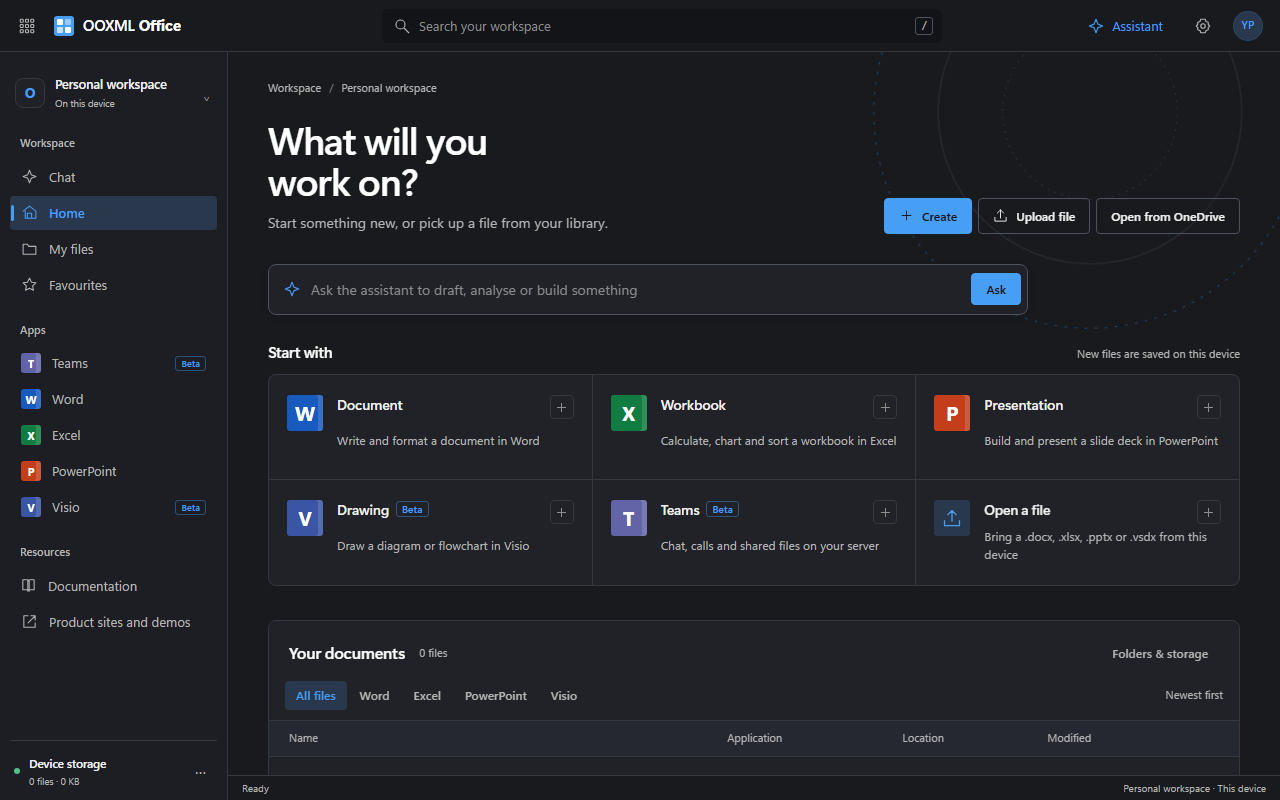
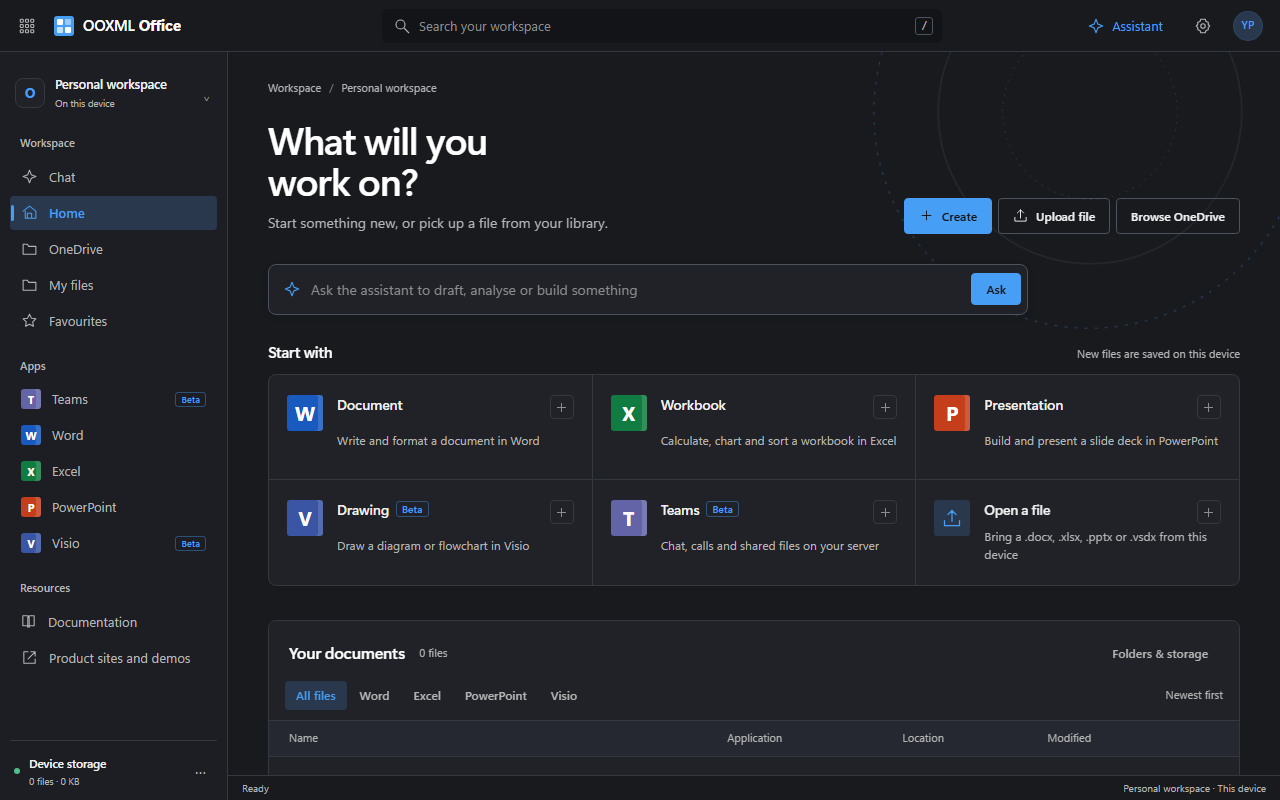
docs: refresh the onedrive guide for browsing and shared file open
The quick start now leads with browsing: a file provider passed as
fileProviders gives every product a OneDrive place in File > Open, the
Office app gets a OneDrive view, and openCloudFile opens a file from a
host's own UI; a sharing link is the secondary path. Screenshots are
regenerated for the Office app's OneDrive view and PowerPoint's File >
Open, the old link dialog image is removed, the demo section describes
the always-ask demo sign-in and the start page buttons, and the flow
diagram names the new ways to choose a file. The screenshot script
follows the new UI and the Graph double's folder layout.

Claude-Session: https://claude.ai/code/session_01Fri9BwUqvMcQRQ5QMApvmc

diff --git a/docs/onedrive-quickstart.md b/docs/onedrive-quickstart.md
@@ -90,41 +90,71 @@ read-only under it.
 
 ## 4. Let the user choose a file
 
-The user copies a sharing link from OneDrive (select the file, **Share**, **Copy link**) and pastes
-it into your application, which passes it to `drive.open(link)`. Supported files are `.docx`,
-`.xlsx`, `.pptx` and `.vsdx`.
+Users browse their OneDrive: recent files, their folders and search, with a sharing link as a
+secondary path. Supported files are `.docx`, `.xlsx`, `.pptx` and `.vsdx`. Create a provider from
+the client of step 3 and your sign-in, then hand it to the editors:
+
+```ts
+import { createOneDriveFileProvider } from 'ooxml-core/embedding/onedrive';
+import { mergeDocxSnapshots } from 'ooxml-core/docx';
+
+const oneDrive = createOneDriveFileProvider({
+	getAccessToken,
+	canWrite: (file) => file.driveId === ownDrive.id,
+	signIn: async () => ({ name: (await msal.loginPopup({ scopes })).account!.username }),
+	mergers: {
+		docx: ({ base, local, remote }) => mergeDocxSnapshots(base.bytes, local, remote.bytes),
+	},
+});
+```
+
+### In File > Open
+
+Pass the provider as `fileProviders` to Word (`<docx-editor>`), Excel (`<xlsx-editor>`), Visio
+(`<visio-viewer>`) or any PowerPoint binding, and **File > Open** gains a **OneDrive** place next to
+**This device**. Every product renders the same shared places element and file browser. Choosing a
+file opens it in the editor; **Save** writes back to that file, and a file the `canWrite` policy
+does not allow opens read-only.
+
+![File > Open > OneDrive in the PowerPoint demo, listing a folder](images/onedrive/demo-file-open-onedrive.png)
+
+To open a file from your own UI instead (a start page, your own picker), call the editor's
+`openCloudFile(file)` with what `provider.open(entry)` returned.
 
 ### In the integrated Office app
 
-The Office app has this built in. Configure the token provider before its entry script loads, and
-**Open from OneDrive** appears on the home page:
+Configure the token provider (and optionally `signIn`, `signOut` and `account`) before its entry
+script loads:
 
 ```ts
 globalThis.ooxmlOneDriveOptions = { getAccessToken, canWrite };
 ```
 
-![The Office app home page with the Open from OneDrive button](images/onedrive/suite-home.png)
+**OneDrive** then appears in the left rail, and **Browse OneDrive** on the home page:
 
-It asks for the sharing link:
+![The Office app home page with the Browse OneDrive button](images/onedrive/suite-home.png)
 
-![The Open from OneDrive dialog with a sharing link entered](images/onedrive/suite-open-dialog.png)
+It shows the same file browser:
 
-The file opens in the matching editor, and **Save** updates the same OneDrive file:
+![The OneDrive view of the Office app listing folders and files](images/onedrive/suite-onedrive-browser.png)
+
+The file opens in the matching editor, and **Save** updates the same OneDrive file. **Share in
+OneDrive** gives you a link without saving first; when your latest edits are only on this device,
+the share dialog says so.
 
 ![PowerPoint in the Office app, with Saved to OneDrive in the status bar](images/onedrive/suite-powerpoint-saved.png)
 
-Without `ooxmlOneDriveOptions`, the dialog explains that sign-in has not been connected:
+Without `ooxmlOneDriveOptions`, the app explains that sign-in has not been connected:
 
-![The Open from OneDrive dialog when no sign-in is configured](images/onedrive/suite-not-configured.png)
+![The OneDrive notice when no sign-in is configured](images/onedrive/suite-not-configured.png)
 
-### In your own application
+### From a sharing link
 
-You add the link box yourself. The React example below includes one:
+`drive.open(link)` opens a file from a link the user pasted (in OneDrive: select the file,
+**Share**, **Copy link**); the file browser offers the same as its **Paste a sharing link** field.
+The React example below shows a link box on its own:
 
 ![A link box asking for a OneDrive sharing link](images/onedrive/react-open.png)
-
-Microsoft's OneDrive file picker is not integrated or tested with this library; a link box is the
-supported path today.
 
 ## 5. React PowerPoint example
 
@@ -357,18 +387,24 @@ Open a deck, choose **File > Open**, then **OneDrive** and **Sign in**. The demo
 to sign in, which a real application does itself:
 
 - **Your app registration**: set `VITE_ONEDRIVE_CLIENT_ID` (and optionally
-  `VITE_ONEDRIVE_AUTHORITY=common`) in an untracked `.env.local` next to the demo, or enter the
-  Application (client) ID from step 1 in the demo's sign-in dialog (it is remembered in that
-  browser). Register each demo origin you use as a single-page application redirect URI
-  (`http://localhost:4173/` through `http://localhost:4177/`, with the trailing slash).
+  `VITE_ONEDRIVE_AUTHORITY=common`) in an untracked `.env.local` next to the demo to sign in
+  without a dialog, or enter the Application (client) ID from step 1 in the demo's sign-in dialog.
+  The dialog then asks every time, pre-filled with the last client ID that signed in successfully;
+  a failed sign-in forgets it. Register each demo origin you use as a single-page application
+  redirect URI (`http://localhost:4173/` through `http://localhost:4177/`, with the trailing slash).
 - **A Graph Explorer token**: the same dialog accepts a token as described in the next section.
   Nothing is registered, and the token is kept only in memory.
+
+The Word, Excel and Visio demos offer the same under **File > Open**, and their start pages have
+an **Open from OneDrive** button.
 
 After signing in the place lists your recent files, your files and a search box. Choose a `.pptx`
 to open it, edit, then save with the viewer's own Save (or Ctrl+S): the file in OneDrive is
 updated and the status bar reads **All saved**. A failed upload keeps **Unsaved changes**. Files on
 someone else's drive open read-only, because the demo uses the own-drive `canWrite` policy from
-step 3.
+step 3; the ribbon then shows **Read-only**.
+
+![The PowerPoint demo after saving a deck opened from OneDrive: the status bar reads All saved](images/onedrive/demo-onedrive-saved.png)
 
 In your own application the wiring is one prop:
 
